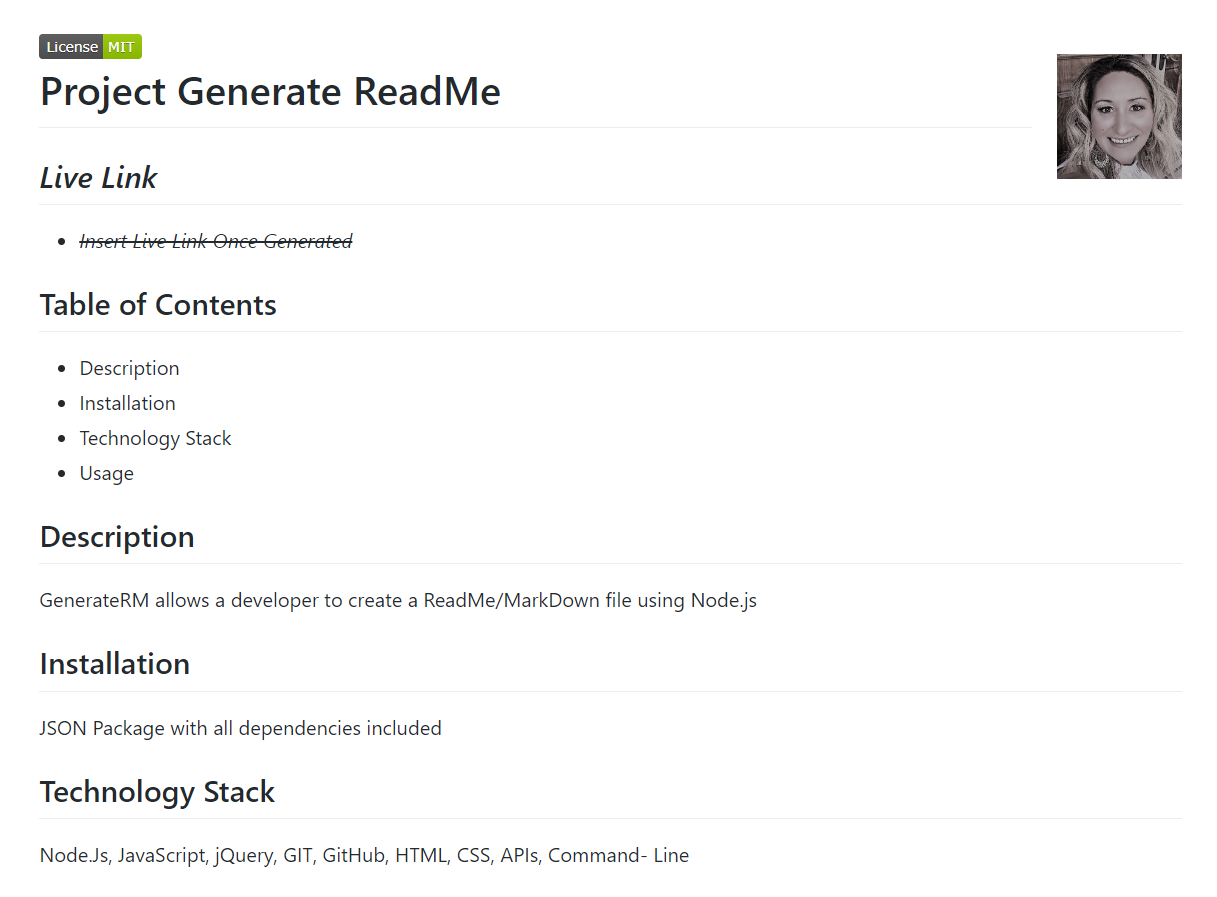
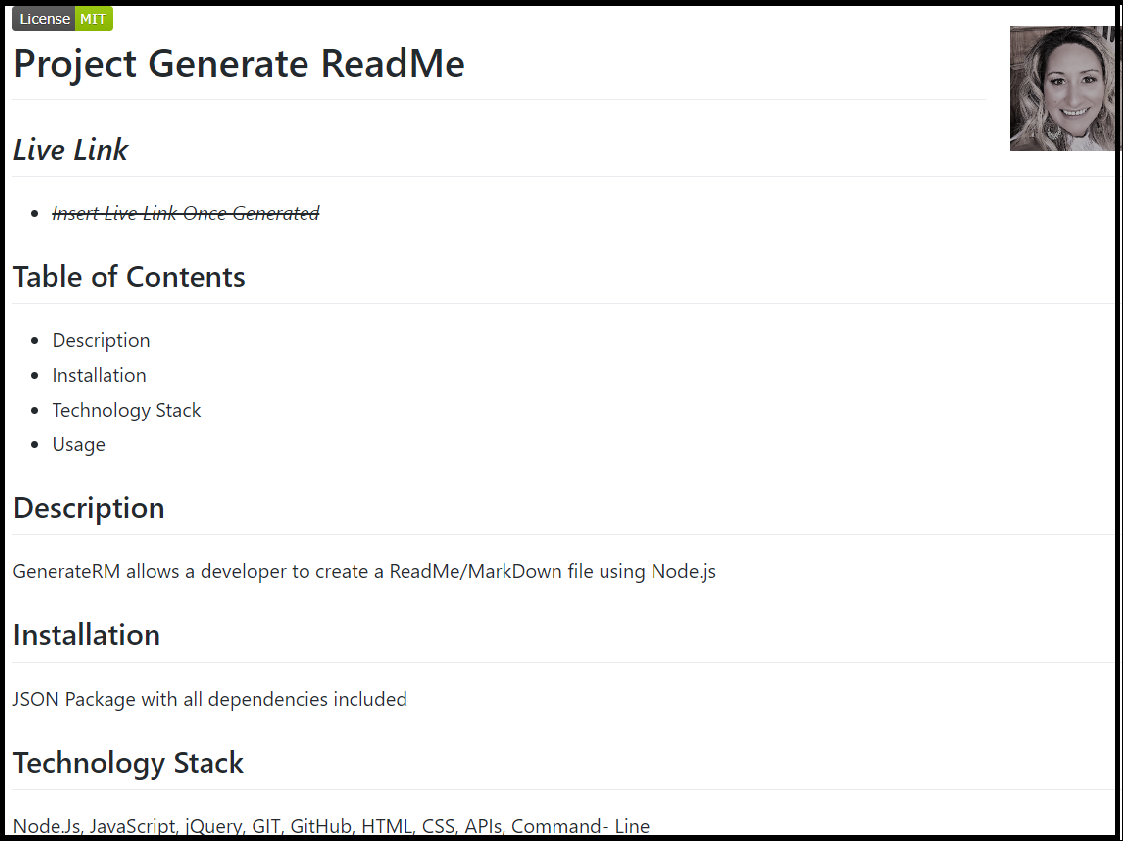
changed screenshots

Changed region(s): [[0.0, 0.0, 1.0, 1.0]]

diff --git a/basic.md b/basic.md
@@ -5,7 +5,7 @@
 ### Description
 This is for the use of a developer to create and generate a ReadMe/MarkDown File using Node.js
 
-<img src = assets/RMscreenshot.png>
+<img src = assets/mobile2.jpg>
  
 ### Usage:  
 <img src = assets/demo.gif>
@@ -20,7 +20,7 @@ Lastly, the user will use all git commands(git add -A, git commit -m " ", git pu
 Once successfully pushed, Generate ReadMe will identify a clean and presentable ReadMe. 
 This includes a profile picture, email address, all contact links available, and a licence badge.
 
-<img src = assets/RMscreenshot2.png>
+<img src = assets/mobile3.jpg>
 
 
 
